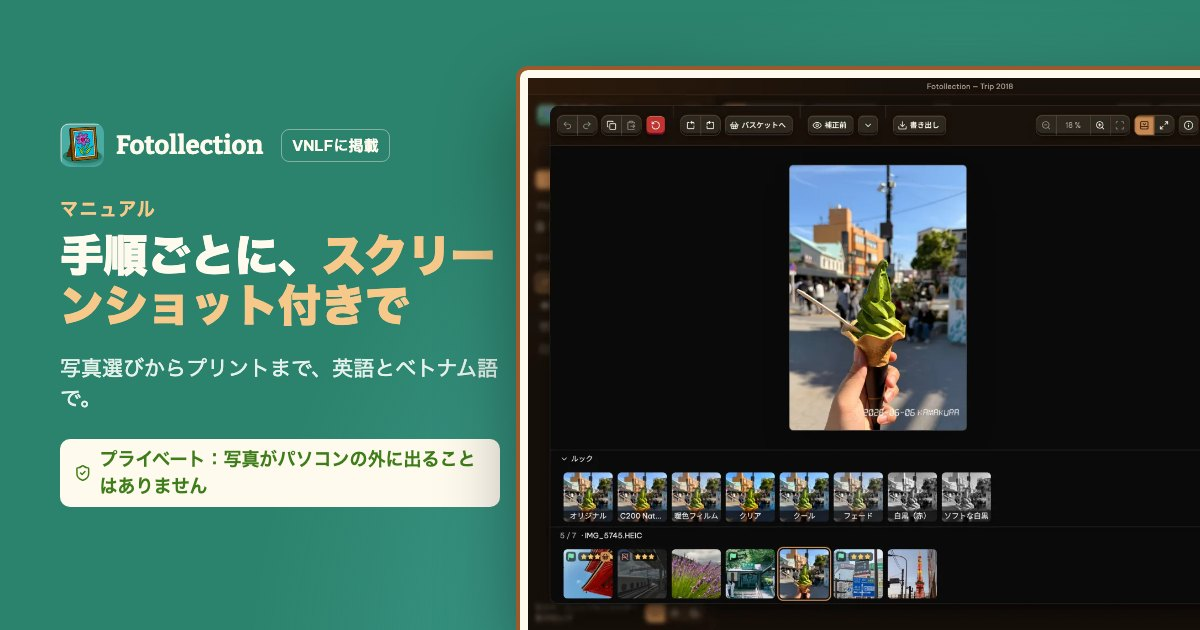
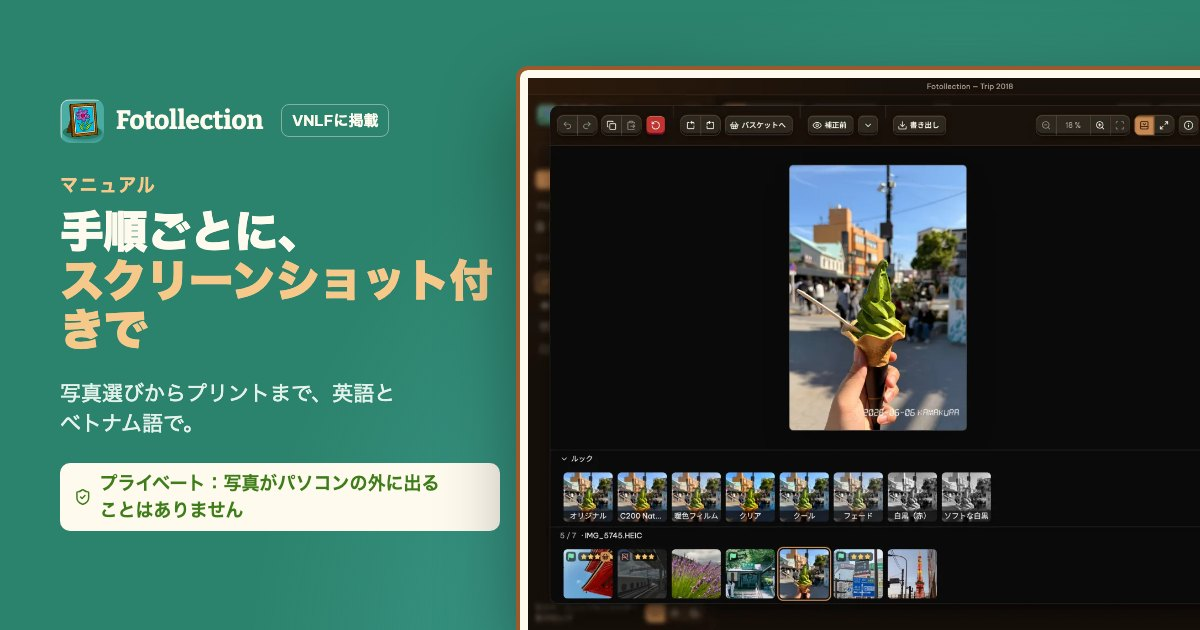
feat(site): Looks on the Japanese and Korean pages shows a Kamakura street and Gwanghwamun; link previews break Korean between words and Japanese between phrases [FR-128]

Changed region(s): [[0.0308, 0.1508, 0.4317, 0.8444]]

diff --git a/site/_includes/looks.html b/site/_includes/looks.html
@@ -1,6 +1,7 @@
 {%- comment %} The interactive Looks section of the landing page (owner, 2026-11-09, after Apple's aperture picker): "Meet Looks", what a look is (Lightroom's preset, LUMIX's LUT and Fotollection's own colours, one thing here), then one photo through each built-in look (site/_data/looks.yml, rendered by the app's engine), a row of looks to pick and a sentence for the one picked; press and hold the photo for its original, as in the app. The pictures are stacked and cross-fade, so a pick never flashes; every sentence sits in one cell, so a pick never moves the row. Without script: the original and the list. assets/js/looks.js. {% endcomment -%}
 {%- assign t = site.data.i18n[pg.lang] -%}
 {%- assign lang = pg.lang -%}
+{%- assign photo = '' -%}{%- if pg.looks %}{%- assign photo = '-' | append: pg.looks -%}{%- endif %}
 <section class="section looks-section" id="looks">
   <div class="wrap">
     <p class="kicker">{{ t.looks_kicker }}</p>
@@ -11,7 +12,7 @@
       <figure class="looks-photo">
         <div class="looks-stack" data-looks-stack>
           {%- for l in site.data.looks %}
-          <img src="{{ '/assets/img/looks/' | append: l.slug | append: '.webp' | relative_url }}" width="1200" height="1600" alt="{% if forloop.first %}{{ t.looks_alt }}{% endif %}"{% unless forloop.first %} aria-hidden="true"{% endunless %} loading="lazy" decoding="async" draggable="false" data-slug="{{ l.slug }}"{% if forloop.first %} class="on"{% endif %} />
+          <img src="{{ '/assets/img/looks/' | append: l.slug | append: photo | append: '.webp' | relative_url }}" width="1200" height="1600" alt="{% if forloop.first %}{{ t.looks_alt }}{% endif %}"{% unless forloop.first %} aria-hidden="true"{% endunless %} loading="lazy" decoding="async" draggable="false" data-slug="{{ l.slug }}"{% if forloop.first %} class="on"{% endif %} />
           {%- endfor %}
         </div>
         <figcaption class="small muted">{{ t.looks_hold }}{% include fn.html keys="fn_photo" %}</figcaption>

diff --git a/site/screenshots/og.html b/site/screenshots/og.html
@@ -25,6 +25,9 @@
       .vnlf { margin-left: 6px; padding: 4px 10px; border-radius: 8px; border: 1px solid #fffaee66; font: 600 15px 'Be Vietnam Pro', sans-serif; color: #fffaee; }
       h1 { margin-top: 30px; font: 800 44px/1.12 'Bitter', 'Hiragino Sans', 'Yu Gothic', 'Noto Sans CJK JP', 'Apple SD Gothic Neo', 'Malgun Gothic', 'Noto Sans CJK KR', sans-serif; letter-spacing: -0.01em; }
       h1 em { font-style: normal; color: #f6c98b; }
+      /* As the site (site.css): Korean breaks only between its spaced words, Japanese between phrases. */
+      :lang(ko) body { word-break: keep-all; overflow-wrap: anywhere; }
+      :lang(ja) body { word-break: auto-phrase; }
       p { margin-top: 22px; font-size: 21px; line-height: 1.45; color: #e3f1ea; }
       .shield { display: inline-flex; align-items: center; gap: 8px; margin-top: 24px; padding: 7px 14px; border-radius: 10px; background: #fffaee; color: #3f7d1a; font-weight: 600; font-size: 18px; }
       .shield svg { width: 22px; height: 22px; }
@@ -55,9 +58,10 @@
       // home page), the headline with its accent, a line, the shield and a screenshot from
       // site/assets/img in the language whose screenshots the page shows.
       const params = new URLSearchParams(location.search)
+      document.documentElement.lang = params.get('lang') ?? 'en'
       const a = params.get('assets') ?? 'en'
       const shots = {
-        // The owner's tram by night on a postcard filled to the edge, "Ahoj Praha!" (shoot.mjs).
+        // The full-bleed demo postcard, to a landmark in the page's language (demo.rs, shoot.mjs).
         home: `postcard-night-${a}-dark.webp`,
         download: `grid-${a}-dark.webp`,
         performance: `charts/bench-budgets-${a}.svg`,

diff --git a/CHANGELOG.md b/CHANGELOG.md
@@ -26,7 +26,7 @@ The format is based on [Keep a Changelog](https://keepachangelog.com/en/1.1.0/),
 
 ### Changed
 
-- **Website in Japanese and Korean:** every screenshot on those pages shows the app in its language, on Japan's photos (Tokyo Tower, Kamakura, Kyoto, Fuji) or Seoul's, with a はがき or a 우편엽서 sent to a famous place; AddAssist has its own card in the print carousel. The postcards on every page go to a famous place with a demo name in the page's language.
+- **Website in Japanese and Korean:** every screenshot on those pages shows the app in its language, on Japan's photos (Tokyo Tower, Kamakura, Kyoto, Fuji) or Seoul's, with a はがき or a 우편엽서 sent to a famous place; AddAssist has its own card in the print carousel, Looks shows its colours on a Kamakura street or Gwanghwamun, and the link previews break Korean only between words. The postcards on every page go to a famous place with a demo name in the page's language.
 - **Website in French** at `/fr/`: the home, Download, Performance, Wiki and code-signing pages and a short manual, with France's photo kiosks (CEWE at E.Leclerc, Intermarché and Fnac, Kodak at Carrefour) in place of dm and Rossmann, and the postcard within La Poste's formats.
 - **Light theme, in the app and on the website:** the edge under buttons, choices and cards is a dark teal instead of grey, as the dark theme's is a dark brown; in the dark theme, the chosen row of a list (a Settings section, a folder) shows its deep edge again.
 - **Website in Korean** at `/ko/`: the home, Download, Performance, Wiki and code-signing pages and a short manual, with Korea's convenience stores (CU, GS25) and their 10 × 15 Printing Box prints in place of dm and Rossmann, set as Korean sites are: words never broken inside, bold Gothic headings.

diff --git a/site/screenshots/README.md b/site/screenshots/README.md
@@ -65,4 +65,4 @@ All are CC0 on Wikimedia Commons. Camera EXIF is intact, so the info frame and t
 | `grevy-zebras-in-der-wilhelma-2.jpg` | [Grevy-Zebras in der Wilhelma 2.jpg](https://commons.wikimedia.org/wiki/File:Grevy-Zebras_in_der_Wilhelma_2.jpg) | CC0 | Dktue | `40c0fe8fa4a6bce0…` |
 | `grevy-zebras-in-der-wilhelma-3.jpg` | [Grevy-Zebras in der Wilhelma 3.jpg](https://commons.wikimedia.org/wiki/File:Grevy-Zebras_in_der_Wilhelma_3.jpg) | CC0 | Dktue | `bbcffa37f62bf414…` |
 
-**The landing page's Looks** (`site/assets/img/looks/`) are not screenshots: `site/screenshots/looks.sh <owner-folder>` renders one of the owner's photos (P1067865, a Prague tram, with his consent) through each built-in look with the app's own engine (`crates/core/examples/render_looks.rs`) and writes 1200 × 1600 WebP. Run it again when a built-in look's recipe changes.
+**The landing page's Looks** (`site/assets/img/looks/`) are not screenshots: `site/screenshots/looks.sh <photo> [lang]` renders one photo, cut to 3:4, through each built-in look with the app's own engine (`crates/core/examples/render_looks.rs`) and writes 1200 × 1600 WebP: `<slug>.webp` from the owner's P1067865 (a Prague tram, with his consent) for every page, `<slug>-ja.webp` from IMG_5710 (a Kamakura street, `JAPAN DEMO`, a HEIC that `sips` turns into a JPEG first) and `<slug>-ko.webp` from @9adox's DSCF1990 (Gwanghwamun) for the pages whose `languages.yml` names them in `looks`, each credited in that page's `fn_photo`. Run it again when a built-in look's recipe changes.
